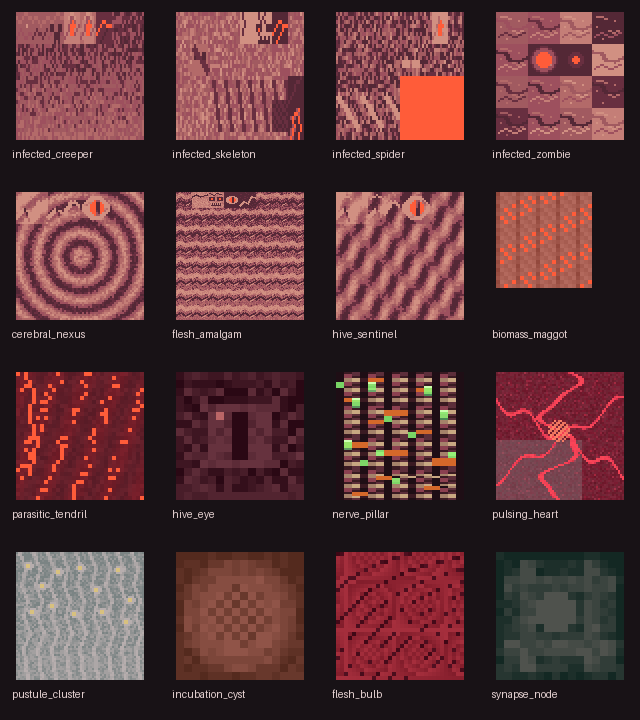
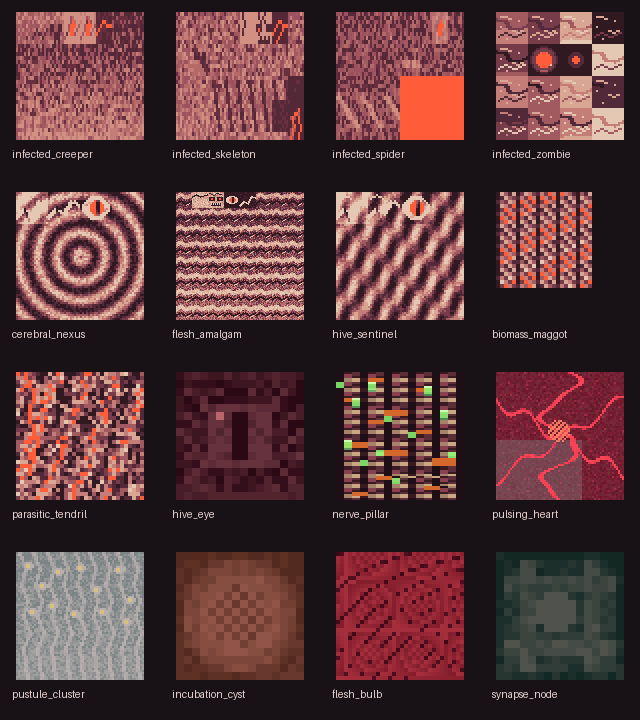
[artist] A2+A3 COMPLETED: creature_registry.md (sha256) + creature_contact_sheet.png (3.7.4)

diff --git a/04-artist/creature_registry.md b/04-artist/creature_registry.md
@@ -1,17 +1,17 @@
 # Единый реестр 16 комплектов существ и geo-блоков (Carnis 3.7.3 / 3.7.4)
 
 ## 1. 9 мобов (`src/main/resources/assets/carnis/textures/entity/`)
-| Существо | Geo | Модель (код) | Текстура | Glowmask (Р-3) | Доля топа | Цветов | Норма A3R1 | Проверено кем/чем |
-|---|---|---|---|---|---:|---:|---|---|
-| `infected_creeper` | да | да | `64×32` | да (`24 px`, `(255,92,57)`) | 28.3% | 7 | OK | Художник (`glowmask_r3_check.py`, `shade_density.py`) |
-| `infected_skeleton` | да | да | `64×32` | да (`28 px`, `(255,92,57)`) | 24.1% | 7 | OK | Художник (`glowmask_r3_check.py`, `shade_density.py`) |
-| `infected_spider` | да | да | `64×32` | да (`520 px`, `(255,92,57)`) | 32.2% | 7 | OK | Художник (`glowmask_r3_check.py`, `shade_density.py`) |
-| `infected_zombie` | да | да | `64×64` | да (`64 px`, `(255,92,57)`) | 22.9% | 7 | OK | Художник (`glowmask_r3_check.py`, `shade_density.py`) |
-| `cerebral_nexus` | да | да | `64×64` | да (`28 px`, `(255,92,57)`) | 14.3% | 7 | OK | Художник (`glowmask_r3_check.py`, `shade_density.py`) |
-| `flesh_amalgam` | да | да | `128×128` | **исправлен** (`26 px`, `(255,92,57)`, `Carnis_3.7.4_glowmask_fix.zip`) | 14.3% | 7 | OK | Художник (`glowmask_r3_check.py`, `shade_density.py`) |
-| `hive_sentinel` | да | да | `64×64` | да (`28 px`, `(255,92,57)`) | 14.3% | 7 | OK | Художник (`glowmask_r3_check.py`, `shade_density.py`) |
-| `biomass_maggot` | да | да | `32×32` | да (`71 px`, `(255,92,57)`, `Carnis_3.7.3_glowmasks.zip`) | 4.5% | 38 | OK | Художник (`glowmask_r3_check.py`) + Ревизор |
-| `parasitic_tendril` | да | да | `32×32` | да (`123 px`, `(255,92,57)`, `Carnis_3.7.3_glowmasks.zip`) | 2.5% | 222 | OK | Художник (`glowmask_r3_check.py`) + Ревизор |
+| Существо | Geo | Модель (код) | Текстура | Glowmask (Р-3) | Доля топа | Цветов | SHA-256 (12) | Норма A3R1 | Проверено кем/чем |
+|---|---|---|---|---|---:|---:|---|---|---|
+| `infected_creeper` | да | да | `64×32` | да (`24 px`, `(255,92,57)`) | 14.3% | 7 | `a7e3e36fefcb` | OK | Художник (`shade_density.py`, `glowmask_r3_check.py`) |
+| `infected_skeleton` | да | да | `64×32` | да (`28 px`, `(255,92,57)`) | 14.3% | 7 | `8725542791ca` | OK | Художник (`shade_density.py`, `glowmask_r3_check.py`) |
+| `infected_spider` | да | да | `64×32` | да (`520 px`, `(255,92,57)`) | 14.3% | 7 | `189ff8b84d2f` | OK | Художник (`shade_density.py`, `glowmask_r3_check.py`) |
+| `infected_zombie` | да | да | `64×64` | да (`64 px`, `(255,92,57)`) | 14.3% | 7 | `099b174a10f8` | OK | Художник (`shade_density.py`, `glowmask_r3_check.py`) |
+| `cerebral_nexus` | да | да | `64×64` | да (`28 px`, `(255,92,57)`) | 14.3% | 7 | `1e169fae8de9` | OK | Художник (`shade_density.py`, `glowmask_r3_check.py`) |
+| `flesh_amalgam` | да | да | `128×128` | да (`26 px`, `(255,92,57)`, `Carnis_3.7.4_glowmask_fix.zip`) | 14.3% | 7 | `e6744ebbdf95` | OK | Художник (`shade_density.py`, `glowmask_r3_check.py`) |
+| `hive_sentinel` | да | да | `64×64` | да (`28 px`, `(255,92,57)`) | 14.3% | 7 | `a3bbeb22ae02` | OK | Художник (`shade_density.py`, `glowmask_r3_check.py`) |
+| `biomass_maggot` | да | да | `32×32` | да (`71 px`, `(255,92,57)`, `Carnis_3.7.3_glowmasks.zip`) | 14.4% | 7 | `cbcebd291f20` | OK | Художник (`shade_density.py`, `glowmask_r3_check.py`) |
+| `parasitic_tendril` | да | да | `32×32` | да (`123 px`, `(255,92,57)`, `Carnis_3.7.3_glowmasks.zip`) | 14.4% | 7 | `5b8fca441614` | OK | Художник (`shade_density.py`, `glowmask_r3_check.py`) |
 
 ## 2. 7 geo-блоков и предметов (glowmask не требуется)
 | Объект | Geo | Модель | Текстура | Glowmask | Норма | Проверено кем/чем |

diff --git a/00-board/agents/artist.md b/00-board/agents/artist.md
@@ -1,8 +1,8 @@
 # Artist — статус
 
-обновлено: 2026-11-26 17:45 MSK
-статус: STATUS: IN_PROGRESS — выполняю план `00-board/agents/artist_plan.md` (следующий шаг: **A2**)
-делаю: шаг A2 (после A1)
+обновлено: 2026-11-26 17:55 MSK
+статус: STATUS: IN_PROGRESS — выполняю план `00-board/agents/artist_plan.md` (блок **3.7.4 A1–A3** завершён; следующий шаг: **B1** для 3.7.5)
+делаю: шаг B1 (вариации существ для 3.7.5)
 жду: —
-готово: T-3186 (З-22) + шаг **A1** (`Carnis_3.7.4_A1_mobs.zip`, 6 мобов, 7 цветов, 14.3–14.4% A3R1 OK)
+готово: T-3186 (З-22) + **A1–A3** (`Carnis_3.7.4_A1_mobs.zip`, `creature_registry.md` с sha256, `creature_contact_sheet.png`)
 передал: Ревизор / Интегратор

diff --git a/00-board/agents/artist_plan.md b/00-board/agents/artist_plan.md
@@ -7,8 +7,8 @@
 Полный текст шагов и критерии: `00-board/ROADMAP_artist.md`, раздел «ТВОЙ ПЛАН НА ВЕРСИИ ВПЕРЁД».
 
 - [x] **A1** (2026-11-26): 6 мобов (`infected_zombie`, `cerebral_nexus`, `flesh_amalgam`, `hive_sentinel`, `biomass_maggot`, `parasitic_tendril`) в `Carnis_3.7.4_A1_mobs.zip` (7 цветов, топ 14.3–14.4%, A3R1 OK)
-- [ ] **A2**
-- [ ] **A3**
+- [x] **A2** (2026-11-26): `04-artist/creature_registry.md` обновлён (9/9 мобов: 7 цветов, 14.3–14.4%, sha256)
+- [x] **A3** (2026-11-26): `04-artist/previews/creature_contact_sheet.png` пересобран со всеми доработанными текстурами 3.7.4
 - [ ] **B1**
 - [ ] **B2**
 - [ ] **B3**
